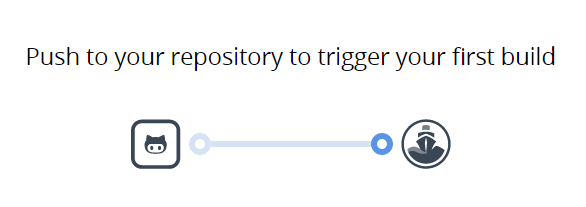
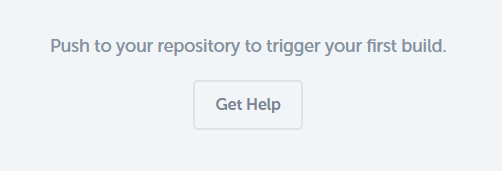
Codeship got a new UI

Changed region(s): [[0.2092, 0.4678, 0.7769, 0.8187], [0.0299, 0.2047, 0.9562, 0.3509]]

diff --git a/_posts/2017-03-02-hosted-ci-comparison.md b/_posts/2017-03-02-hosted-ci-comparison.md
@@ -4,6 +4,12 @@ title: Comparison of Hosted Continuous Integration products
 category: hosted-ci-comparison
 ---
 
+| Version history | Changes       | 
+| -------------   |:--------|  
+| July 20017      | [Codeship](#codeship)  redesigned their UI |
+| April 2017      | Oracle buys [Wercker](#wercker)  |
+| March 2017      | First version  |
+
 ### A brief comparison of hosted Continuous Integration services
 
 I was a happy user of [SnapCI](https://snap-ci.com/). I really liked the way pipelines worked and how easy was
@@ -51,7 +57,7 @@ Because I am mainly a Java developer I have tested all of them with JVM projects
 * [AppHarbor](https://appharbor.com/) (.NET only)
 * [MagnumCI](https://magnum-ci.com/) (Supports Ruby, Go, PHP, Python but not Java)
 
-I also did not spent too much time with [Bitbucket pipelines](https://bitbucket.org/product/features/pipelines) as they are tied with Bitbucket. 
+I also did not spend too much time with [Bitbucket pipelines](https://bitbucket.org/product/features/pipelines) as they are tied with Bitbucket (same with [Gitlab CI](https://about.gitlab.com/features/gitlab-ci-cd/))
 
 
 #### My sample projects
@@ -265,6 +271,9 @@ existence of a Maven or Gradle file in the repo and act accordingly (at least as
 
 ![Codeship no autodetection](../../assets/ci-comparison/codeship/codeship-no-autodetection.png)
 
+Project setup is geared only towards dynamic languages (same problem as with [CircleCI](#circleci)). Codeship assumes that your build has two phases, downloading
+of dependencies and running unit tests. Obviously this is not the way compiled languages like Java work (as both Maven and Gradle fetch their dependencies on demand)
+
 
 However the thing that bothers me most with Codeship is that once you are finished with the
 setup a build does NOT run at all. There is no build button!
@@ -279,21 +288,12 @@ build. Duh!
 I forgive Codeship for the lack of autodetection of build system, but I find no excuses for the
 lack of a "build Now" button.
 
-The user interface of Codeship has a clean layout and shows all needed information. It has
-however two minor quirks that spoil the experience.
-The first problem is that there is no “dashboard” (or at least I did not find it). You can only
-select a single project and manage it.
+The user interface of Codeship has a clean layout and shows all needed information. It also comes
+with a very helpful dashboard that shows all your projects along with their latest build.
 
-![Codeship no dashboard](../../assets/ci-comparison/codeship/no-dashboard.png)
+![Codeship dashboard](../../assets/ci-comparison/codeship/dashboard.png)
 
-So if you have let’s say 8 projects there is no way to see a single page that gives you the
-pass/fail status of all projects. You need to visit them one by one to see their last build.
-
-The second problem is that in the feedback screen where you see the results of the build an
-"accordion" component is used. This means that it is impossible to expand all sections at
-once to see what is happening. Only one section can be open. Sad but true.
-
-My experiments show that Maven dependencies are cached but Gradle ones do not.
+My experiments show that Maven dependencies are cached but Gradle ones [do not](https://documentation.codeship.com/basic/builds-and-configuration/dependency-cache/).
 If you use Gradle Wrapper in your build you will even be forced to redownload
 it for every
 build that runs.
@@ -302,7 +302,12 @@ On the other hand Codeship build servers have preinstalled
 all the popular build tools and
 even some exotic ones (for Scala and Clojure).
 
-Like CircleCI, Codeship support ssh access to the build servers but with an additional twist!
+The build log is very well designed and shows the result of all individual commands.
+
+![Codeship log](../../assets/ci-comparison/codeship/codeship-build.png)
+
+
+Like [CircleCI](#circleci), Codeship supports ssh access to the build servers but with an additional twist!
 You ssh into a clone of the build machine while the build machine actually runs the next
 build!
 This means that you can debug a failed build at your leisure without blocking the build
@@ -319,18 +324,17 @@ On the plus side Codeship:
 
 * has explicit support for deployment pipelines where you define what happens
 during deployment. 
-* comes with [A REST API](https://documentation.codeship.com/basic/getting-started/api/)
-* supports [Test parallelism](https://documentation.codeship.com/basic/getting-started/parallelci/)
+* comes with [a REST API](https://documentation.codeship.com/basic/getting-started/api/)
+* supports [Test Parallelism](https://documentation.codeship.com/basic/getting-started/parallelci/)
 
-Documentation is fairly basic. There are some topics without documentation (e.g. how
-caching works) but in general I found it descriptive and up-to-date.
+Documentation is quite extensive. In general I found it descriptive and up-to-date.
 
 To sum up, Codeship is an imbalanced solution. On one hand it has the killer feature of nonblocking
 ssh
 debugging, but on the other hand the lack of a "build now" button really puzzles me. There is
 caching support for Maven but not for Gradle. The fact that built-in Gradle is still at 
 version 1.10 perhaps shows what Codeship thinks of supporting it. The technical product under the hood is a
-solid one, but it is plagued by several UI problems.
+solid one, but Java is a second class citizen and Gradle builds are really viable.
 
 Admittedly Codeship seems to be in a transition to their [Codeship Pro service](https://documentation.codeship.com/pro/getting-started/getting-started/), which is a Docker
 based solution that comes with its own executable (called [Jet](https://documentation.codeship.com/pro/getting-started/installation/#what-is-jet)) that allows you to run your build locally. 
@@ -342,10 +346,9 @@ I really wanted to spend some time with Codeship Pro but  I stumbled again upon 
 first build" message and I did not want to add any more dummy commits to my projects just so that Codeship can pick the changes.
 
 If you work at Codeship and are reading this, your product needs some design changes. You
-should either support Gradle cache or even better make the cache mechanism transparent
-and configurable. Not all Java projects use Maven. Add a "buildnow"
+should either support Gradle cache or even better make the cache mechanism configurable (like [Buddy Works](#buddyworks)). Not all Java projects use Maven. Add a _build now_
 button to all screens
-(this is a no brainer). Add a dashboard screen for all projects. Your ssh feature is killer and
+(this is a no brainer). Your ssh feature is killer and
 you should advertise it more.
 
 I have a feeling that Codeship is best for interpreted runtimes (Python, Ruby etc) so maybe Java is not
@@ -355,7 +358,7 @@ getting the attention it deserves from the company.
 | Website    | [Codeship](https://codeship.com/) |
 | Pricing    | [Details](https://codeship.com/pricing) |
 | Documentation    | Good but [nothing impressive here](https://documentation.codeship.com/) |
-| User Interface | Big problems with UX. The accordion component for the logs is especially problematic. Lack of a dashboard that shows all projects.  |
+| User Interface | Clean and well designed  |
 | Build configuration | No project autodetection. No support for Gradle |
 | Docker support | None in the basic version. Full Docker support (and more) in the pro version|
 | Extra features    | [Rest API](https://documentation.codeship.com/basic/getting-started/api/), Deployment pipelines, test parallelism, [Roles](https://documentation.codeship.com/general/account/organizations/)|
@@ -787,8 +790,12 @@ does exactly what it says on the box.
 
 ### Wercker
 
+
+
 [Wercker](http://www.wercker.com/) is a company launched in 2012 with offices in San Francisco, London and Amsterdam.
 They have a very active web page with [blogs posts](http://blog.wercker.com/) covering apart from CI, topics such as deployments and Kubernetes.
+
+**Update April 2017**: Oracle [bought Wercker](https://www.oracle.com/corporate/acquisitions/wercker/index.html) so my review might soon be obsolete.
 
 Wercker supports both GitHub and Bitbucket. It is very easy to import your repositories.
 
@@ -844,7 +851,7 @@ After all is said and done here is the comparison chart you have been waiting fo
 | [Buddy Works](#buddyworks)       | Yes     |yml/GUI | Yes | Yes|  Yes | No |  No| Yes|
 | [CircleCI](#circleci)            | Yes  |yml/GUI | Partial| Partial | No | No | Yes | Yes|
 | [Codefresh](#codefresh)          | Yes  |yml/dockerfile | No  | Yes  | No | Yes (Docker)  | No | Maybe |
-| [Codeship](#codeship)            | No | yml/GUI | Partial | Pending | No | Pending | Yes  | Maybe |
+| [Codeship](#codeship)            | Yes | yml/GUI | Partial | Pending | No | Pending | Yes  | Maybe |
 | [DeployBot](#deploybot)          | No!  | awful | No | - | -  |-  | -  | Hell No |
 | [Distelli](#distelli)            | Yes  | yml/GUI | No | Yes | Yes | No | No | No |
 | [SemaphoreCI](#semaphoreci)    | Yes   | GUI | Partial | Yes  | No | No  | Yes | Yes|
@@ -943,6 +950,8 @@ table than this I am happy to include it here.
 
 
 That's it! I hope I saved you some time.
+
+
 
 
 
